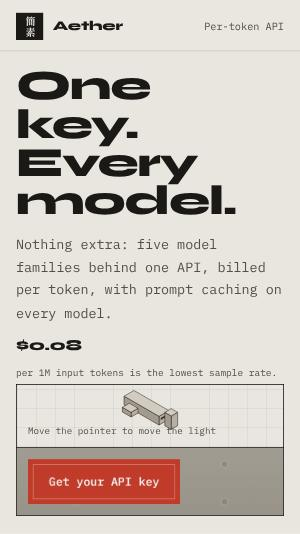
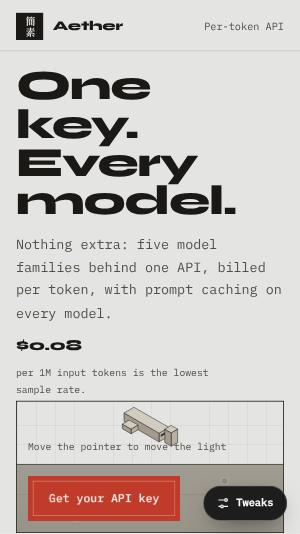
Tracking floor -0.04em (Impeccable craft floor); tighter site 02 mobile hero; refreshed previews so far
Claude-Session: https://claude.ai/code/session_01WwjPDdn61xsN75d1oQa6pN

Changed region(s): [[0.03, 0.6891, 0.96, 1.0], [0.84, 0.6891, 0.9, 0.7191], [0.93, 0.7191, 0.96, 0.7491]]

diff --git a/components/designs/d09/d09.css b/components/designs/d09/d09.css
@@ -63,12 +63,12 @@
 .r9-controls { display: grid; gap: 28px; align-content: center; }
 .r9-controls label { display: grid; gap: 8px; }
 .r9-controls label span { font-size: 0.88rem; color: var(--text-muted); }
-.r9-controls label b { font-size: clamp(2.8rem, 5vw, 4.6rem); font-weight: 700; letter-spacing: -0.045em; line-height: 0.9; }
+.r9-controls label b { font-size: clamp(2.8rem, 5vw, 4.6rem); font-weight: 700; letter-spacing: -0.04em; line-height: 0.9; }
 .r9-controls input { width: 100%; accent-color: var(--accent); height: 28px; }
 .r9-costs { display: grid; border-top: 2px solid var(--line); }
 .r9-costs li { position: relative; display: grid; grid-template-columns: 2fr 4fr 3fr; align-items: baseline; gap: 16px; padding: 10px 0; border-bottom: 1px solid var(--line); overflow: hidden; }
 .r9-costs .nm { font-weight: 600; font-size: 1.1rem; }
-.r9-costs .num { font-size: clamp(2.4rem, 6.2vh, 4.4rem); font-weight: 700; letter-spacing: -0.045em; line-height: 1; font-variant-numeric: tabular-nums; }
+.r9-costs .num { font-size: clamp(2.4rem, 6.2vh, 4.4rem); font-weight: 700; letter-spacing: -0.04em; line-height: 1; font-variant-numeric: tabular-nums; }
 .r9-costs .per { font-family: var(--mono); font-size: 0.76rem; color: var(--text-muted); text-align: right; }
 .r9-costs .bar { position: absolute; left: 0; bottom: -1px; height: 4px; width: 100%; background: var(--accent); transform-origin: left; transition: transform 0.25s linear; }
 @media (max-width: 900px) {
@@ -98,7 +98,7 @@
 .r9-rail-h { margin-bottom: 40px; }
 .r9-steps { padding-inline: var(--gutter); gap: 0; }
 .r9-step { width: min(560px, 50vw); display: grid; gap: 14px; align-content: start; border-left: 2px solid var(--line); }
-.r9-step .n { font-size: 7rem; font-weight: 700; line-height: 0.8; letter-spacing: -0.05em; color: #11111126; transition: color 0.4s; }
+.r9-step .n { font-size: 7rem; font-weight: 700; line-height: 0.8; letter-spacing: -0.04em; color: #11111126; transition: color 0.4s; }
 .r9-step.is-active .n { color: var(--accent); }
 .r9-step h3 { font-size: 2rem; font-weight: 650; letter-spacing: -0.03em; line-height: 1.02; }
 .r9-step p { color: var(--text-muted); }
@@ -120,7 +120,7 @@
 .r9-plan.feat { background: var(--text-primary); color: #fff; }
 .r9-plan.feat .cad, .r9-plan.feat li { color: #D2D0CA; }
 .r9-plan h3 { font-size: 1.1rem; font-weight: 650; }
-.r9-plan .price { font-size: clamp(2.6rem, 4vw, 3.6rem); font-weight: 700; letter-spacing: -0.045em; line-height: 0.95; }
+.r9-plan .price { font-size: clamp(2.6rem, 4vw, 3.6rem); font-weight: 700; letter-spacing: -0.04em; line-height: 0.95; }
 .r9-plan .cad { font-size: 0.86rem; color: var(--text-muted); margin-bottom: 10px; }
 .r9-plan ul { display: grid; gap: 6px; }
 .r9-plan .fk { margin-top: 10px; font-weight: 600; font-size: 0.9rem; }
@@ -138,5 +138,5 @@
 .r9-foot h3 { font-size: 0.8rem; font-family: var(--mono); font-weight: 400; color: var(--text-muted); }
 .r9-foot a { text-decoration: none; } .r9-foot a:hover { text-decoration: underline; }
 .r9-foot span { color: var(--text-muted); font-size: 0.8rem; }
-.r9-foot .big { font-size: clamp(3rem, 8vw, 7rem); font-weight: 700; letter-spacing: -0.05em; line-height: 0.85; }
+.r9-foot .big { font-size: clamp(3rem, 8vw, 7rem); font-weight: 700; letter-spacing: -0.04em; line-height: 0.85; }
 @media (max-width: 860px) { .r9-foot { grid-template-columns: 1fr 1fr; } .r9-foot .big { grid-column: 1 / -1; } }
